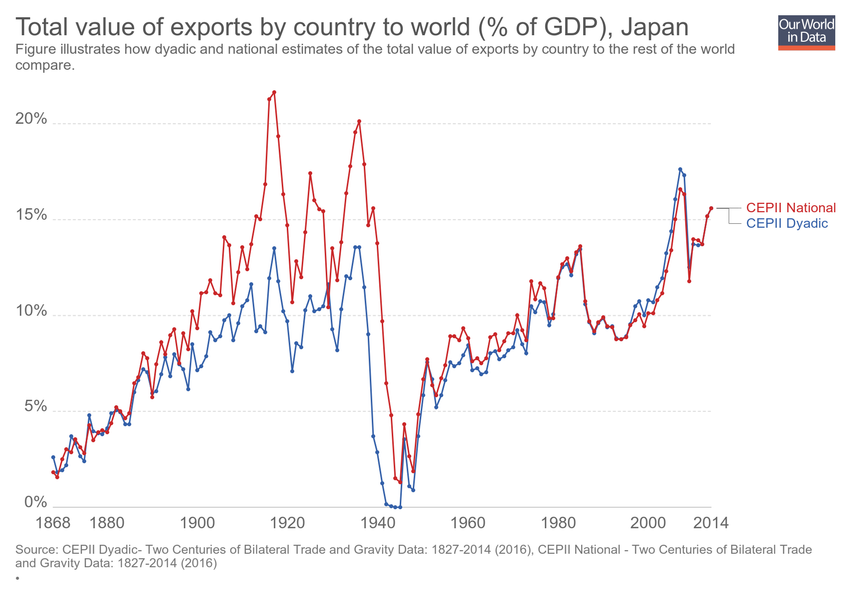
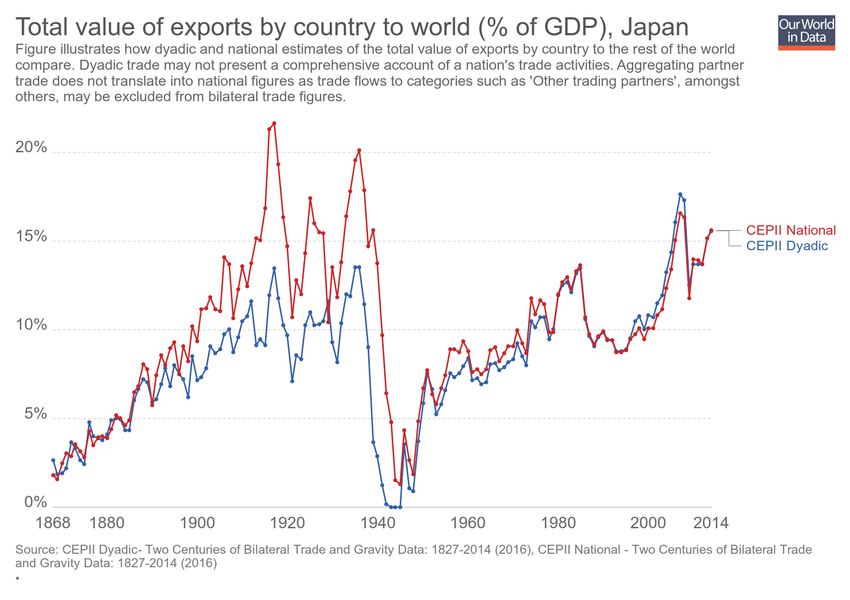
Updating chart total-value-of-exports-by-country-to-world-national-vs-dyadic

diff --git a/grapher/total-value-of-exports-by-country-to-world-national-vs-dyadic.html b/grapher/total-value-of-exports-by-country-to-world-national-vs-dyadic.html
@@ -1,4 +1,4 @@
-<!doctype html><html><head><meta name="viewport" content="width=device-width, initial-scale=1" /><title>Total value of exports by country to world (% of GDP) - Our World in Data</title><meta name="description" content="Figure illustrates how dyadic and national estimates of the total value of exports by country to the rest of the world compare." /><link rel="canonical" href="https://ourworldindata.org/grapher/total-value-of-exports-by-country-to-world-national-vs-dyadic" /><meta property="fb:app_id" content="1149943818390250" /><meta property="og:url" content="https://ourworldindata.org/grapher/total-value-of-exports-by-country-to-world-national-vs-dyadic" /><meta property="og:title" content="Total value of exports by country to world (% of GDP)" /><meta property="og:description" content="Figure illustrates how dyadic and national estimates of the total value of exports by country to the rest of the world compare." /><meta property="og:image" content="https://ourworldindata.org/grapher/exports/total-value-of-exports-by-country-to-world-national-vs-dyadic.png?v=3" /><meta property="og:image:width" content="850" /><meta property="og:image:height" content="600" /><meta property="og:site_name" content="Our World in Data" /><meta name="twitter:card" content="summary_large_image" /><meta name="twitter:site" content="@OurWorldInData" /><meta name="twitter:creator" content="@OurWorldInData" /><meta name="twitter:title" content="Total value of exports by country to world (% of GDP)" /><meta name="twitter:description" content="Figure illustrates how dyadic and national estimates of the total value of exports by country to the rest of the world compare." /><meta name="twitter:image" content="https://ourworldindata.org/grapher/exports/total-value-of-exports-by-country-to-world-national-vs-dyadic.png?v=3" /><style>
+<!doctype html><html><head><meta name="viewport" content="width=device-width, initial-scale=1" /><title>Total value of exports by country to world (% of GDP) - Our World in Data</title><meta name="description" content="Figure illustrates how dyadic and national estimates of the total value of exports by country to the rest of the world compare. Dyadic trade may not present a comprehensive account of a nation's trade activities. Aggregating partner trade does not translate into national figures as trade flows to categories such as 'Other trading partners', amongst others, may be excluded from bilateral trade figures." /><link rel="canonical" href="https://ourworldindata.org/grapher/total-value-of-exports-by-country-to-world-national-vs-dyadic" /><meta property="fb:app_id" content="1149943818390250" /><meta property="og:url" content="https://ourworldindata.org/grapher/total-value-of-exports-by-country-to-world-national-vs-dyadic" /><meta property="og:title" content="Total value of exports by country to world (% of GDP)" /><meta property="og:description" content="Figure illustrates how dyadic and national estimates of the total value of exports by country to the rest of the world compare. Dyadic trade may not present a comprehensive account of a nation's trade activities. Aggregating partner trade does not translate into national figures as trade flows to categories such as 'Other trading partners', amongst others, may be excluded from bilateral trade figures." /><meta property="og:image" content="https://ourworldindata.org/grapher/exports/total-value-of-exports-by-country-to-world-national-vs-dyadic.png?v=5" /><meta property="og:image:width" content="850" /><meta property="og:image:height" content="600" /><meta property="og:site_name" content="Our World in Data" /><meta name="twitter:card" content="summary_large_image" /><meta name="twitter:site" content="@OurWorldInData" /><meta name="twitter:creator" content="@OurWorldInData" /><meta name="twitter:title" content="Total value of exports by country to world (% of GDP)" /><meta name="twitter:description" content="Figure illustrates how dyadic and national estimates of the total value of exports by country to the rest of the world compare. Dyadic trade may not present a comprehensive account of a nation's trade activities. Aggregating partner trade does not translate into national figures as trade flows to categories such as 'Other trading partners', amongst others, may be excluded from bilateral trade figures." /><meta name="twitter:image" content="https://ourworldindata.org/grapher/exports/total-value-of-exports-by-country-to-world-national-vs-dyadic.png?v=5" /><style>
         html, body {
             height: 100%;
             margin: 0;
@@ -20,8 +20,8 @@
         }
     </style><noscript><style>
                     figure { display: none !important; }
-                </style></noscript><link rel="stylesheet" href="https://ourworldindata.org/grapher/assets/commons.bundle.dcbbe53805c487d5e57617b10ac73a8a.css" /><link rel="preload" href="/grapher/data/variables/85798+97432.json?v=3" as="fetch" crossorigin /></head><body class="singleChart"><figure data-grapher-src="/grapher/total-value-of-exports-by-country-to-world-national-vs-dyadic"></figure><noscript id="fallback"><img src="/grapher/exports/total-value-of-exports-by-country-to-world-national-vs-dyadic.svg" /><p>Interactive visualization requires JavaScript</p></noscript><script src="https://cdn.polyfill.io/v2/polyfill.min.js?features=es6,fetch"></script><script src="https://ourworldindata.org/grapher/assets/commons.bundle.da523acc49807a06a11f.js"></script><script src="https://ourworldindata.org/grapher/assets/charts.bundle.da523acc49807a06a11f.js"></script><script>
-        var jsonConfig = {"id":2708,"map":{"projection":"World","colorSchemeLabels":[],"colorSchemeValues":[],"customNumericColors":[],"customCategoryColors":{},"customCategoryLabels":{},"customHiddenCategories":{}},"tab":"chart","slug":"total-value-of-exports-by-country-to-world-national-vs-dyadic","type":"LineChart","title":"Total value of exports by country to world (% of GDP)","xAxis":{"scaleType":"linear"},"yAxis":{"min":0,"scaleType":"linear"},"version":3,"subtitle":"Figure illustrates how dyadic and national estimates of the total value of exports by country to the rest of the world compare.","hasMapTab":false,"stackMode":"absolute","dimensions":[{"display":{"name":"CEPII Dyadic","unit":"%"},"property":"y","variableId":85798},{"display":{"name":"CEPII National","unit":"%"},"property":"y","variableId":97432}],"hasChartTab":true,"isPublished":true,"selectedData":[{"index":0,"entityId":14},{"index":1,"entityId":14}],"addCountryMode":"change-country"};
+                </style></noscript><link rel="stylesheet" href="https://ourworldindata.org/grapher/assets/commons.bundle.dcbbe53805c487d5e57617b10ac73a8a.css" /><link rel="preload" href="/grapher/data/variables/85798+97432.json?v=5" as="fetch" crossorigin /></head><body class="singleChart"><figure data-grapher-src="/grapher/total-value-of-exports-by-country-to-world-national-vs-dyadic"></figure><noscript id="fallback"><img src="/grapher/exports/total-value-of-exports-by-country-to-world-national-vs-dyadic.svg" /><p>Interactive visualization requires JavaScript</p></noscript><script src="https://cdn.polyfill.io/v2/polyfill.min.js?features=es6,fetch"></script><script src="https://ourworldindata.org/grapher/assets/commons.bundle.da523acc49807a06a11f.js"></script><script src="https://ourworldindata.org/grapher/assets/charts.bundle.da523acc49807a06a11f.js"></script><script>
+        var jsonConfig = {"id":2708,"map":{"projection":"World","colorSchemeLabels":[],"colorSchemeValues":[],"customNumericColors":[],"customCategoryColors":{},"customCategoryLabels":{},"customHiddenCategories":{}},"tab":"chart","slug":"total-value-of-exports-by-country-to-world-national-vs-dyadic","type":"LineChart","title":"Total value of exports by country to world (% of GDP)","xAxis":{"scaleType":"linear"},"yAxis":{"min":0,"scaleType":"linear"},"version":5,"subtitle":"Figure illustrates how dyadic and national estimates of the total value of exports by country to the rest of the world compare. Dyadic trade may not present a comprehensive account of a nation's trade activities. Aggregating partner trade does not translate into national figures as trade flows to categories such as 'Other trading partners', amongst others, may be excluded from bilateral trade figures.","hasMapTab":false,"stackMode":"absolute","dimensions":[{"display":{"name":"CEPII Dyadic","unit":"%"},"property":"y","variableId":85798},{"display":{"name":"CEPII National","unit":"%"},"property":"y","variableId":97432}],"hasChartTab":true,"isPublished":true,"selectedData":[{"index":0,"entityId":14},{"index":1,"entityId":14}],"addCountryMode":"change-country"};
         var figure = document.getElementsByTagName("figure")[0];
         try {
             window.App = {};
